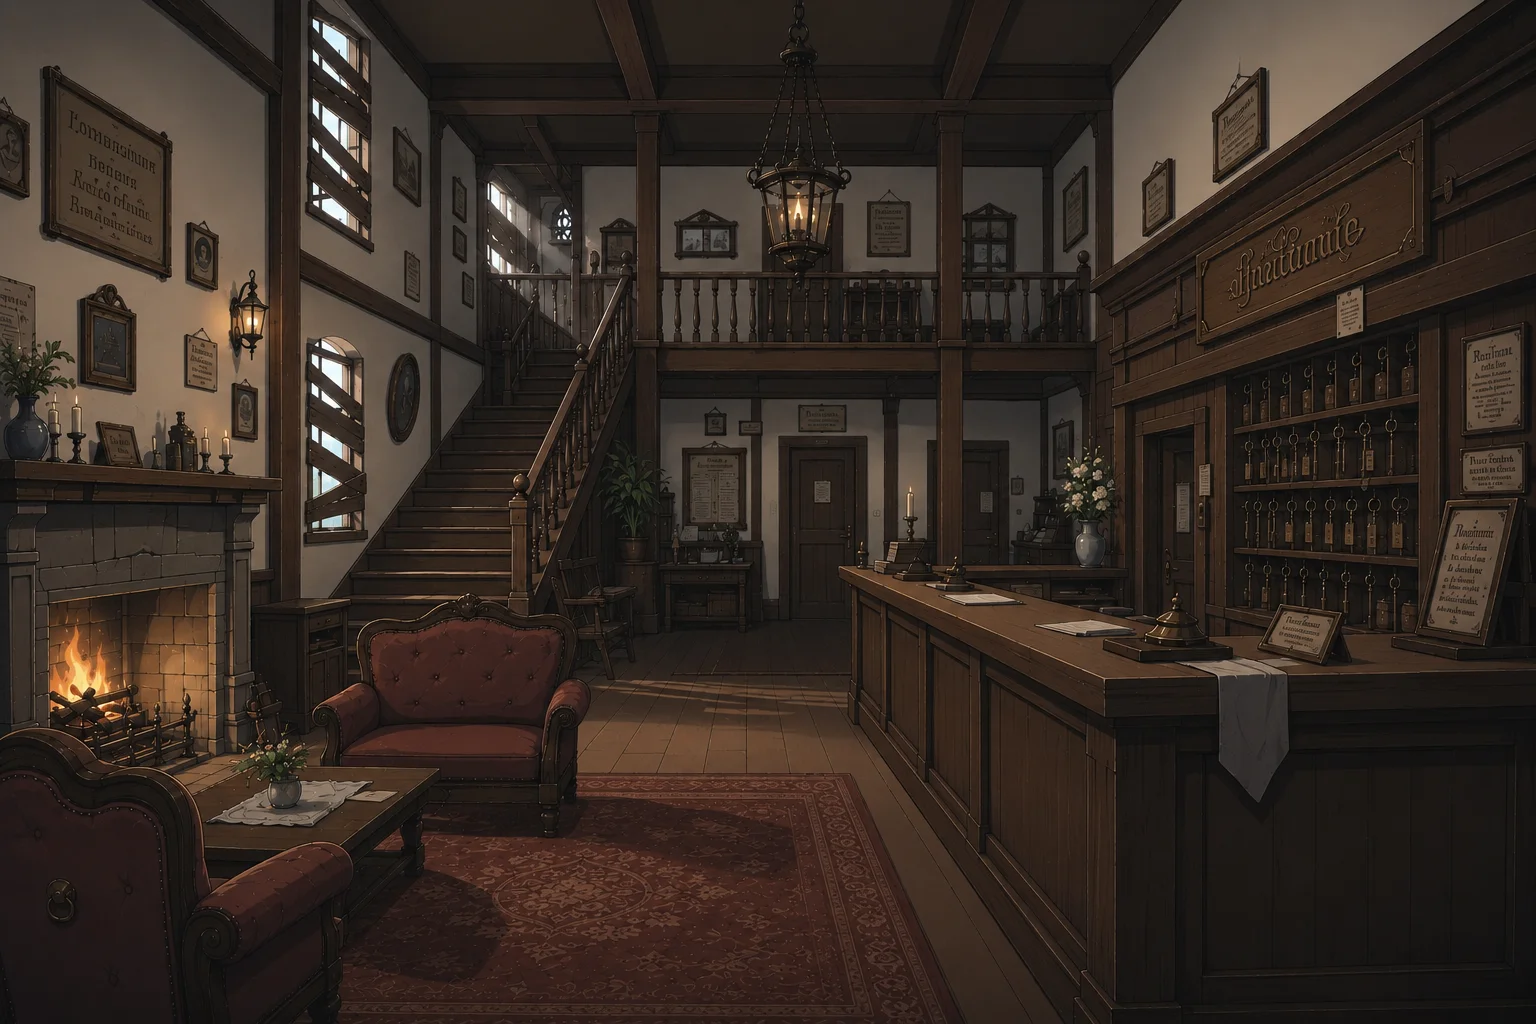
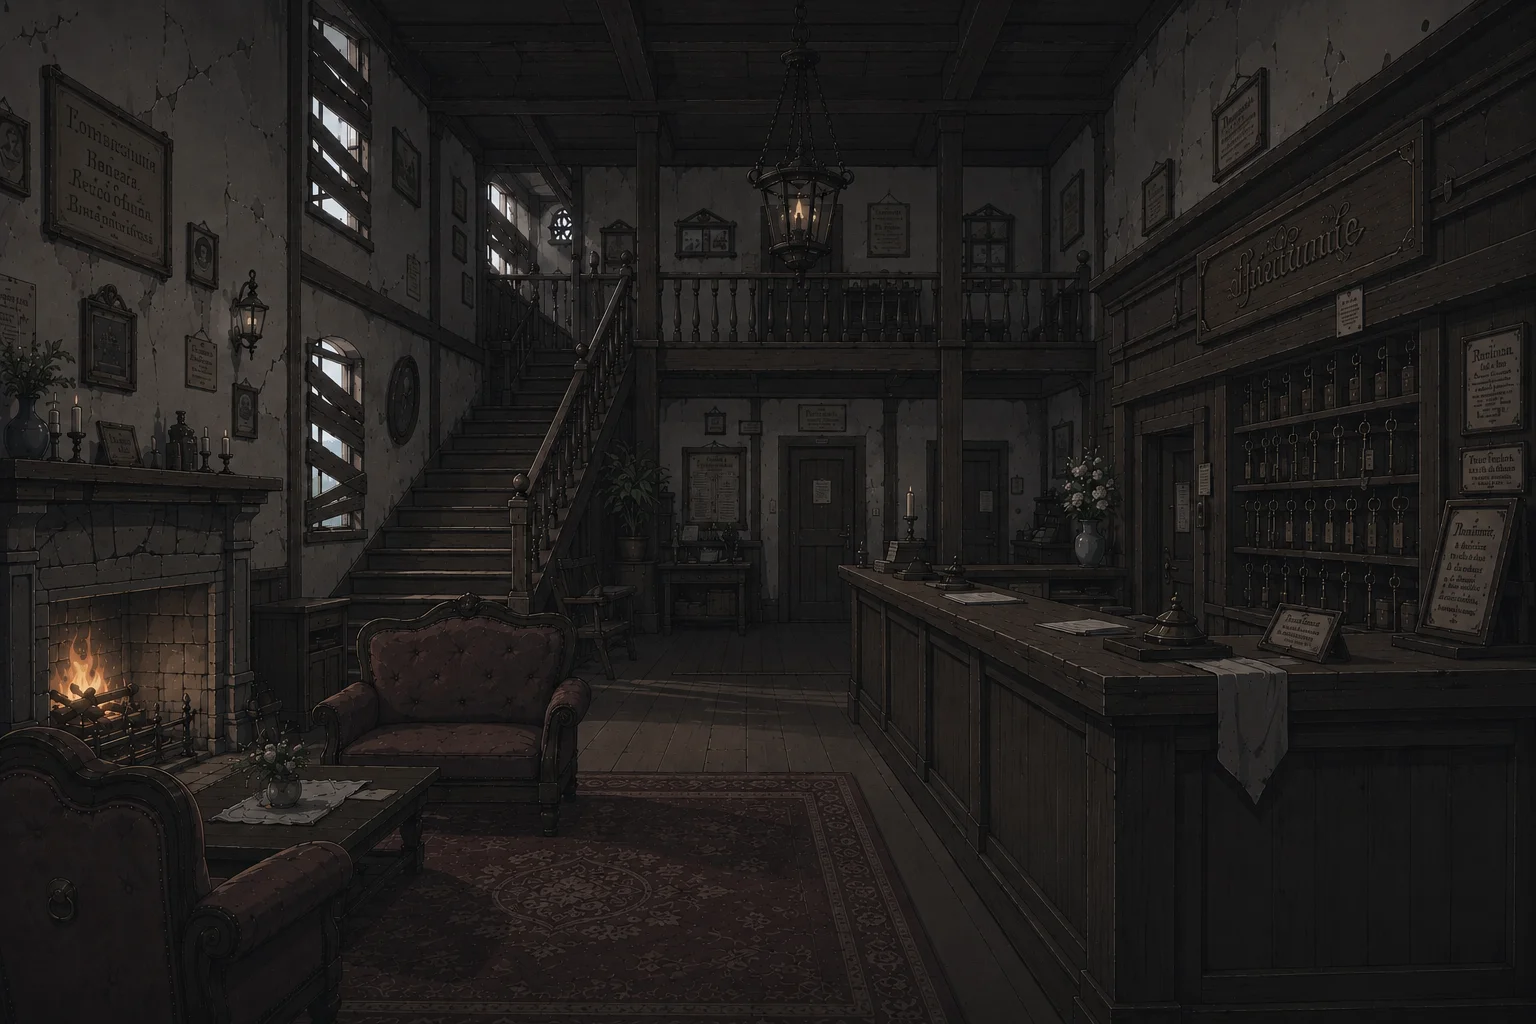
feat: 北方泊地碼頭節點（西側上＝port_BF 歸位）＋指示箭去城名前綴（stripTownPrefix 由 TOWNS 城名推，唯一一支）＋旅店大廳重生灰調版（白牆暖調版不合整組，收 rejected） ver -571

diff --git a/modules/town.js b/modules/town.js
@@ -648,8 +648,16 @@ function nameOfNode(id){
   /* ⚠ 打烊的地方在**目的地字格上就標出來**（ver -406）：走過去才發現關門是白走一趟，
      而移動要花掉遊戲內時間（時間是資源）。標在這裡＝所有顯示目的地名的地方
      （字格、蓄能提示）都吃得到，只有這一支在決定（鐵律 7）。 */
-  const nm=(n.name||'').replace(/^帝都　/,'');
+  const nm=stripTownPrefix(n.name);
   return isOpenNow(n) ? nm : (nm+'（已打烊）');
+}
+/* 節點名去掉「城名＋全形空格」前綴（ver -571，Ray：「指示箭不要加『北方泊地』前綴」）。
+   ⚠ 城名從 `TOWNS[townId].name` 推，不寫死是哪座城（鐵律 7；舊版寫死 `^帝都　`，
+     北方泊地的箭就整排帶著前綴）。只有這一支在做（鐵律 8）—— 字格、打烊浮條都問它。 */
+function stripTownPrefix(name){
+  const tn=(TOWNS[townId]||{}).name;
+  const s=String(name||'');
+  return tn ? s.replace(new RegExp('^'+tn+'　'), '') : s;
 }
 /* 營業時間那一行。⚠ 只有這一支在把 `hours` 排成字（鐵律 7）—— 打烊提示與日後
    任何要顯示營業時間的地方都問它。 */
@@ -818,7 +826,7 @@ function knockClosed(n){
   const parts=[];
   if(n.closed) parts.push(n.closed);
   const ht=hoursText(n); if(ht) parts.push(ht);
-  story.flashLine(parts.join('　'), (n.name||'').replace(/^帝都　/,''));
+  story.flashLine(parts.join('　'), stripTownPrefix(n.name));
   chatterOn=true;
 }
 

diff --git a/script/town.js b/script/town.js
@@ -722,11 +722,17 @@ export const TOWNS = {
         /* 出航＝模板的「離開」，照 capital 的規矩掛在下；到得這裡船一定有了（同旗，只讀）。 */
         sail:{ flag:'got_ship' },
       },
-      /* ── 三個街區樞紐（背景全是入口圖佔位，見檔頭②）── */
+      /* ── 三個街區樞紐 ── */
       west: {
         bg:'Northport_west_BF', name:'北方泊地　西側',
-        /* up＝Citymap 的空格：Ray 指定先留空（不開出口）。 */
-        exits:{ left:'gunstore', right:'guild', down:'entrance' },
+        /* up＝Citymap 的空格 → ver -571 Ray 定案是**碼頭**（原入口圖 port_BF 的家）。 */
+        exits:{ up:'port', left:'gunstore', right:'guild', down:'entrance' },
+      },
+      /* 碼頭（ver -571，Ray：「西側北端加入碼頭 Northport_port_BF」）——
+         擔架兵那張原「入口」圖歸位於此。 */
+      port: {
+        bg:'Northport_port_BF', name:'北方泊地　碼頭',
+        exits:{ back:'west' },
       },
       north: {
         bg:'Northport_north_BF', name:'北方泊地　北側',
